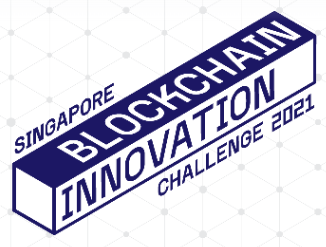
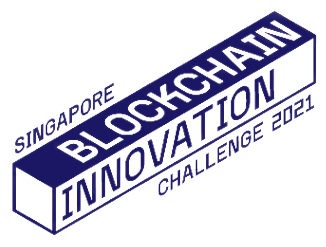
Removed background for assets

diff --git a/css/style.css b/css/style.css
@@ -2,7 +2,7 @@
     --primary: black;
     --secondary: white;
     --primary_accent: lime;
-    --secondary_accent: #D3D3D3;
+    --secondary_accent: #EDEDED;
     --large: 50px;
     --medium: 30px;
     --small: 20px;
@@ -123,6 +123,12 @@ h2 {
 .about-right {
     flex: 1;
     padding: var(--small);
+    text-align: center;
+}
+
+.profile-photo {
+    max-height: 300px;
+    max-width: 300px;
 }
 
 /* The actual timeline (the vertical ruler) */
@@ -231,8 +237,6 @@ h2 {
     background-color: var(--secondary_accent);
     position: relative;
     border-radius: 6px;
-
-
 }
 
 .timeline-header {
@@ -313,7 +317,7 @@ h2 {
     background-color: var(--primary);
     color: var(--primary_accent);
     margin: 5px;
-    
+
     border-radius: 20px;
 }
 
@@ -322,7 +326,7 @@ h2 {
     background-color: var(--primary);
     color: var(--primary_accent);
     margin: 5px;
-    
+
     border-radius: 20px;
 }
 
